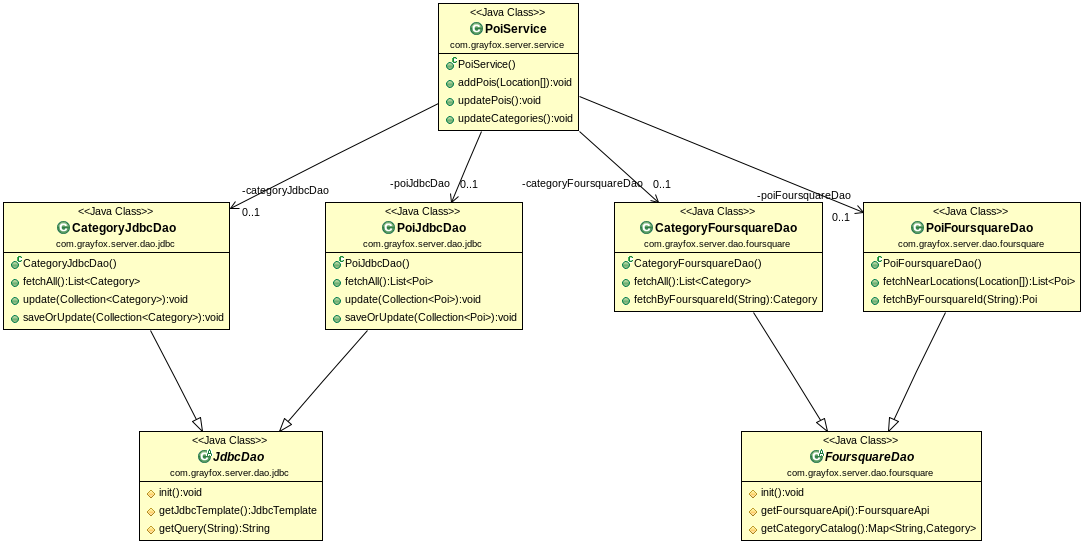
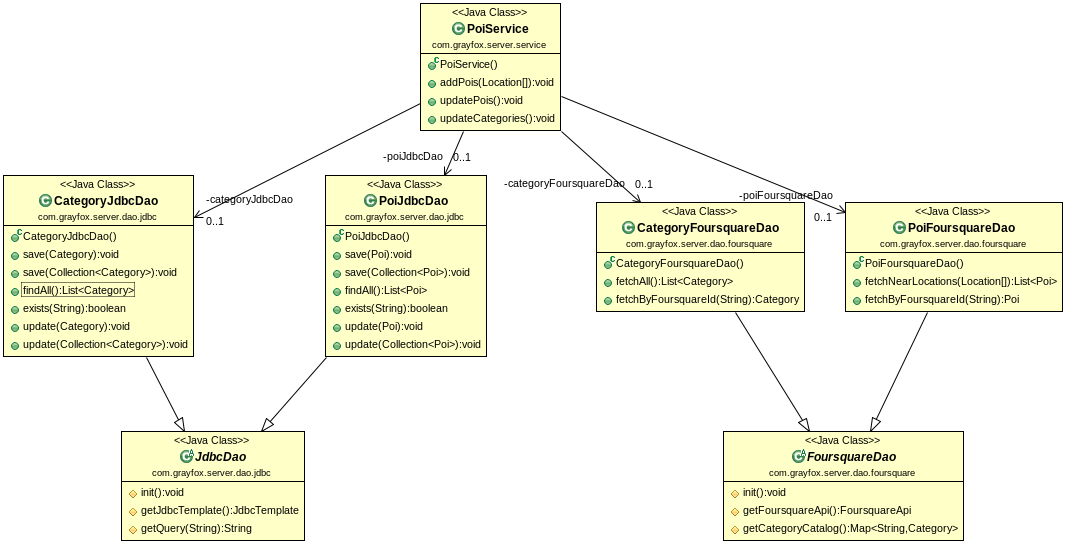
Fetch methods were renamed to 'find'

diff --git a/src/test/java/com/grayfox/server/dao/foursquare/PoiFoursquareDaoTest.java b/src/test/java/com/grayfox/server/dao/foursquare/PoiFoursquareDaoTest.java
@@ -49,7 +49,7 @@ public class PoiFoursquareDaoTest {
     }
 
     @Test
-    public void testFetchNearLocations() {
+    public void testFindNearLocations() {
         Poi p1 = new Poi();
         p1.setFoursquareId("4ba952daf964a520d81e3ae3");
         p1.setName("Zócalo");
@@ -104,20 +104,20 @@ public class PoiFoursquareDaoTest {
 
         List<Poi> expectedPois = Arrays.asList(p1, p2, p3, p4);
 
-        List<Poi> actualPois = poiFoursquareDao.fetchNearLocations(Location.parse("19.043651,-98.197968"), Location.parse("19.054369,-98.283627"));
+        List<Poi> actualPois = poiFoursquareDao.findNearLocations(Location.parse("19.043651,-98.197968"), Location.parse("19.054369,-98.283627"));
 
         assertThat(actualPois).isNotNull().isNotEmpty().containsOnlyElementsOf(expectedPois);
     }
 
     @Test
-    public void testErrorInFetchNearLocations() {
-        assertThatThrownBy(() -> poiFoursquareDao.fetchNearLocations(Location.parse("0,0")))
+    public void testErrorInFindNearLocations() {
+        assertThatThrownBy(() -> poiFoursquareDao.findNearLocations(Location.parse("0,0")))
             .isInstanceOf(DaoException.class)
             .hasMessageStartingWith("Internal error while requesting Foursquare data. Message:");
     }
 
     @Test
-    public void testFetchByFoursquareId() {
+    public void testFindByFoursquareId() {
         Poi expectedPoi = new Poi();
         expectedPoi.setFoursquareId("4c09270ea1b32d7f172297f0");
         expectedPoi.setName("Las Quekas");
@@ -131,14 +131,14 @@ public class PoiFoursquareDaoTest {
         category.setIconUrl("https://ss3.4sqi.net/img/categories_v2/food/breakfast_88.png");
         expectedPoi.setCategories(new HashSet<>(Arrays.asList(category)));
 
-        Poi actualPoi = poiFoursquareDao.fetchByFoursquareId(expectedPoi.getFoursquareId());
+        Poi actualPoi = poiFoursquareDao.findByFoursquareId(expectedPoi.getFoursquareId());
 
         assertThat(actualPoi).isNotNull().isEqualTo(expectedPoi);
     }
 
     @Test
-    public void testErrorInFetchByFoursquareId() {
-        assertThatThrownBy(() -> poiFoursquareDao.fetchByFoursquareId("unknown"))
+    public void testErrorInFindByFoursquareId() {
+        assertThatThrownBy(() -> poiFoursquareDao.findByFoursquareId("unknown"))
             .isInstanceOf(DaoException.class)
             .hasMessageStartingWith("Internal error while requesting Foursquare data. Message:");
     }

diff --git a/src/main/java/com/grayfox/server/service/PoiService.java b/src/main/java/com/grayfox/server/service/PoiService.java
@@ -48,7 +48,7 @@ public class PoiService {
     @Transactional
     public void addPois(Location... locations) {
         LOGGER.info("Retrieving POIs from Foursquare...");
-        List<Poi> pois = poiFoursquareDao.fetchNearLocations(locations);
+        List<Poi> pois = poiFoursquareDao.findNearLocations(locations);
         Set<Category> categories = new HashSet<>();
         pois.forEach(poi -> categories.addAll(poi.getCategories()));
         LOGGER.info("Saving POIs...");
@@ -68,7 +68,7 @@ public class PoiService {
         List<Poi> pois = poiJdbcDao.findAll();
         LOGGER.info("Updating POIs info from Foursquare...");
         for (Poi poi : pois) {
-            Poi temp = poiFoursquareDao.fetchByFoursquareId(poi.getFoursquareId());
+            Poi temp = poiFoursquareDao.findByFoursquareId(poi.getFoursquareId());
             poi.setName(temp.getName());
             poi.setLocation(temp.getLocation());
             poi.setFoursquareId(temp.getFoursquareId());
@@ -82,10 +82,10 @@ public class PoiService {
 
     @Transactional
     public void updateCategories() {
-        List<Category> categories = categoryJdbcDao.fetchAll();
+        List<Category> categories = categoryJdbcDao.findAll();
         LOGGER.info("Updating Categories info from Foursquare...");
         for (Category category : categories) {
-            Category temp = categoryFoursquareDao.fetchByFoursquareId(category.getFoursquareId());
+            Category temp = categoryFoursquareDao.findByFoursquareId(category.getFoursquareId());
             category.setDefaultName(temp.getDefaultName());
             category.setSpanishName(temp.getSpanishName());
             category.setIconUrl(temp.getIconUrl());

diff --git a/src/test/java/com/grayfox/server/dao/foursquare/CategoryFoursquareDaoTest.java b/src/test/java/com/grayfox/server/dao/foursquare/CategoryFoursquareDaoTest.java
@@ -44,7 +44,7 @@ public class CategoryFoursquareDaoTest {
     }
 
     @Test
-    public void testFetchAll() {
+    public void testFindAll() {
         Category c1 = new Category();
         c1.setFoursquareId("4bf58dd8d48988d164941735");
         c1.setDefaultName("Plaza");
@@ -70,20 +70,20 @@ public class CategoryFoursquareDaoTest {
         c4.setIconUrl("https://ss3.4sqi.net/img/categories_v2/food/argentinian_88.png");
 
         List<Category> expectedCategories = Arrays.asList(c1, c2, c3, c4);
-        List<Category> actualCategories = categoryFoursquareDao.fetchAll();
+        List<Category> actualCategories = categoryFoursquareDao.findAll();
 
         assertThat(actualCategories).isNotNull().isNotEmpty().containsOnlyElementsOf(expectedCategories);
     }
 
     @Test
-    public void testFetchByFoursquareId() {
+    public void testFindByFoursquareId() {
         Category expectedCategory = new Category();
         expectedCategory.setFoursquareId("4bf58dd8d48988d143941735");
         expectedCategory.setDefaultName("Breakfast Spot");
         expectedCategory.setSpanishName("Café");
         expectedCategory.setIconUrl("https://ss3.4sqi.net/img/categories_v2/food/breakfast_88.png");
 
-        Category actualCategory = categoryFoursquareDao.fetchByFoursquareId(expectedCategory.getFoursquareId());
+        Category actualCategory = categoryFoursquareDao.findByFoursquareId(expectedCategory.getFoursquareId());
 
         assertThat(actualCategory).isNotNull().isEqualTo(expectedCategory);
     }

diff --git a/src/test/java/com/grayfox/server/test/dao/foursquare/MockPoiFoursquareDao.java b/src/test/java/com/grayfox/server/test/dao/foursquare/MockPoiFoursquareDao.java
@@ -51,7 +51,7 @@ public class MockPoiFoursquareDao extends PoiFoursquareDao {
     }
 
     @Override
-    public List<Poi> fetchNearLocations(Location... locations) {
+    public List<Poi> findNearLocations(Location... locations) {
         boolean hasOneLocation = false;
         if (locations.length > 0) {
             for (Location location : locations) {
@@ -68,11 +68,11 @@ public class MockPoiFoursquareDao extends PoiFoursquareDao {
                 .setStatus(HttpStatus.INTERNAL_SERVER_ERROR.toString())
                 .setBody(Utils.getContentFromFileInClasspath("responses/generic_error.json")));
         }
-        return super.fetchNearLocations(locations);
+        return super.findNearLocations(locations);
     }
 
     @Override
-    public Poi fetchByFoursquareId(String foursquareId) {
+    public Poi findByFoursquareId(String foursquareId) {
         if (SUPPORTED_VENUES.contains(foursquareId)) {
             mockWebServer.enqueue(new MockResponse()
                 .setStatus(HttpStatus.OK.toString())
@@ -82,6 +82,6 @@ public class MockPoiFoursquareDao extends PoiFoursquareDao {
                 .setStatus(HttpStatus.INTERNAL_SERVER_ERROR.toString())
                 .setBody(Utils.getContentFromFileInClasspath("responses/generic_error.json")));
         }
-        return super.fetchByFoursquareId(foursquareId);
+        return super.findByFoursquareId(foursquareId);
     }
 }

diff --git a/src/test/java/com/grayfox/server/dao/jdbc/CategoryJdbcDaoTest.java b/src/test/java/com/grayfox/server/dao/jdbc/CategoryJdbcDaoTest.java
@@ -55,7 +55,7 @@ public class CategoryJdbcDaoTest {
         category.setSpanishName("Plaza");
         category.setIconUrl("https://ss3.4sqi.net/img/categories_v2/parks_outdoors/plaza_88.png");
 
-        assertThat(categoryJdbcDao.fetchAll()).isNotNull().isEmpty();
+        assertThat(categoryJdbcDao.findAll()).isNotNull().isEmpty();
 
         List<Category> expectedCategories = Arrays.asList(category);
 
@@ -64,13 +64,13 @@ public class CategoryJdbcDaoTest {
 
         assertThat(category.getId()).isNotNull();
         assertThat(categoryJdbcDao.exists(category.getFoursquareId())).isTrue();
-        assertThat(categoryJdbcDao.fetchAll()).isNotNull().isNotEmpty().doesNotContainNull().hasSameSizeAs(expectedCategories).containsOnlyElementsOf(expectedCategories);
+        assertThat(categoryJdbcDao.findAll()).isNotNull().isNotEmpty().doesNotContainNull().hasSameSizeAs(expectedCategories).containsOnlyElementsOf(expectedCategories);
 
         category.setDefaultName("OtherName");
 
         // update
         categoryJdbcDao.update(category);
 
-        assertThat(categoryJdbcDao.fetchAll()).isNotNull().isNotEmpty().doesNotContainNull().hasSameSizeAs(expectedCategories).containsOnlyElementsOf(expectedCategories);
+        assertThat(categoryJdbcDao.findAll()).isNotNull().isNotEmpty().doesNotContainNull().hasSameSizeAs(expectedCategories).containsOnlyElementsOf(expectedCategories);
     }
 }

diff --git a/src/main/java/com/grayfox/server/dao/foursquare/PoiFoursquareDao.java b/src/main/java/com/grayfox/server/dao/foursquare/PoiFoursquareDao.java
@@ -38,7 +38,7 @@ import org.springframework.stereotype.Repository;
 @Repository
 public class PoiFoursquareDao extends FoursquareDao {
 
-    public List<Poi> fetchNearLocations(Location... locations) {
+    public List<Poi> findNearLocations(Location... locations) {
         FoursquareApi foursquareApi = getFoursquareApi();
         List<Poi> pois = new ArrayList<>(locations.length);
         for (Location location : locations) {
@@ -55,7 +55,7 @@ public class PoiFoursquareDao extends FoursquareDao {
         return pois;
     }
 
-    public Poi fetchByFoursquareId(String foursquareId) {
+    public Poi findByFoursquareId(String foursquareId) {
         Result<Venue> venueResult = getFoursquareApi().getVenue(foursquareId);
         if (venueResult.getMeta().getCode() == 200) return toPoi(venueResult.getResponse());
         else throw new DaoException.Builder()

diff --git a/src/main/java/com/grayfox/server/dao/foursquare/CategoryFoursquareDao.java b/src/main/java/com/grayfox/server/dao/foursquare/CategoryFoursquareDao.java
@@ -25,13 +25,13 @@ import org.springframework.stereotype.Repository;
 @Repository
 public class CategoryFoursquareDao extends FoursquareDao {
 
-    public List<Category> fetchAll() {
+    public List<Category> findAll() {
         List<Category> result = new ArrayList<>();
         getCategoryCatalog().forEach((categoryId, category) -> result.add(category));
         return result;
     }
 
-    public Category fetchByFoursquareId(String foursquareId) {
+    public Category findByFoursquareId(String foursquareId) {
         return getCategoryCatalog().get(foursquareId);
     }
 }

diff --git a/src/test/java/com/grayfox/server/service/PoiServiceTest.java b/src/test/java/com/grayfox/server/service/PoiServiceTest.java
@@ -192,6 +192,6 @@ public class PoiServiceTest {
         category2.setSpanishName("Restaurante argentino");
         category2.setIconUrl("https://ss3.4sqi.net/img/categories_v2/food/argentinian_88.png");
 
-        assertThat(categoryJdbcDao.fetchAll()).isNotNull().isNotEmpty().doesNotContainNull().hasSameSizeAs(expectedCategories).containsOnlyElementsOf(expectedCategories);
+        assertThat(categoryJdbcDao.findAll()).isNotNull().isNotEmpty().doesNotContainNull().hasSameSizeAs(expectedCategories).containsOnlyElementsOf(expectedCategories);
     }
 }

diff --git a/src/main/java/com/grayfox/server/dao/jdbc/CategoryJdbcDao.java b/src/main/java/com/grayfox/server/dao/jdbc/CategoryJdbcDao.java
@@ -42,7 +42,7 @@ public class CategoryJdbcDao extends JdbcDao {
         categories.forEach(category -> save(category));
     }
 
-    public List<Category> fetchAll() {
+    public List<Category> findAll() {
         return getJdbcTemplate().query(getQuery("allCategories"), 
                 (ResultSet rs, int i) -> {
                     Category category = new Category();
